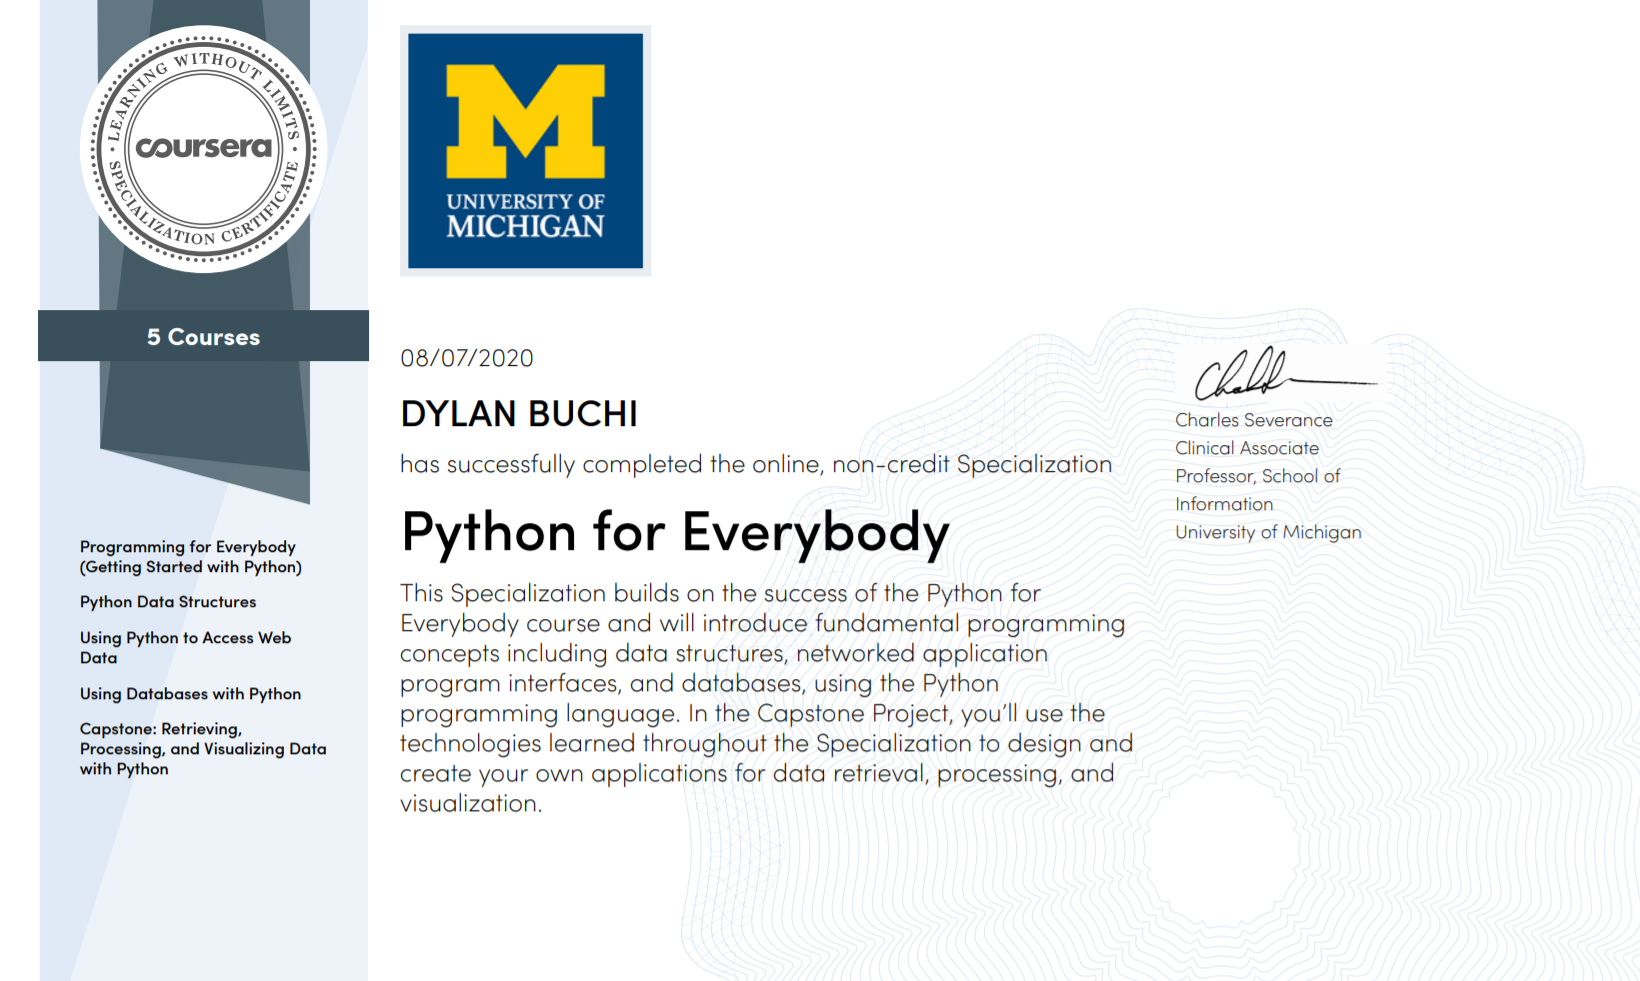
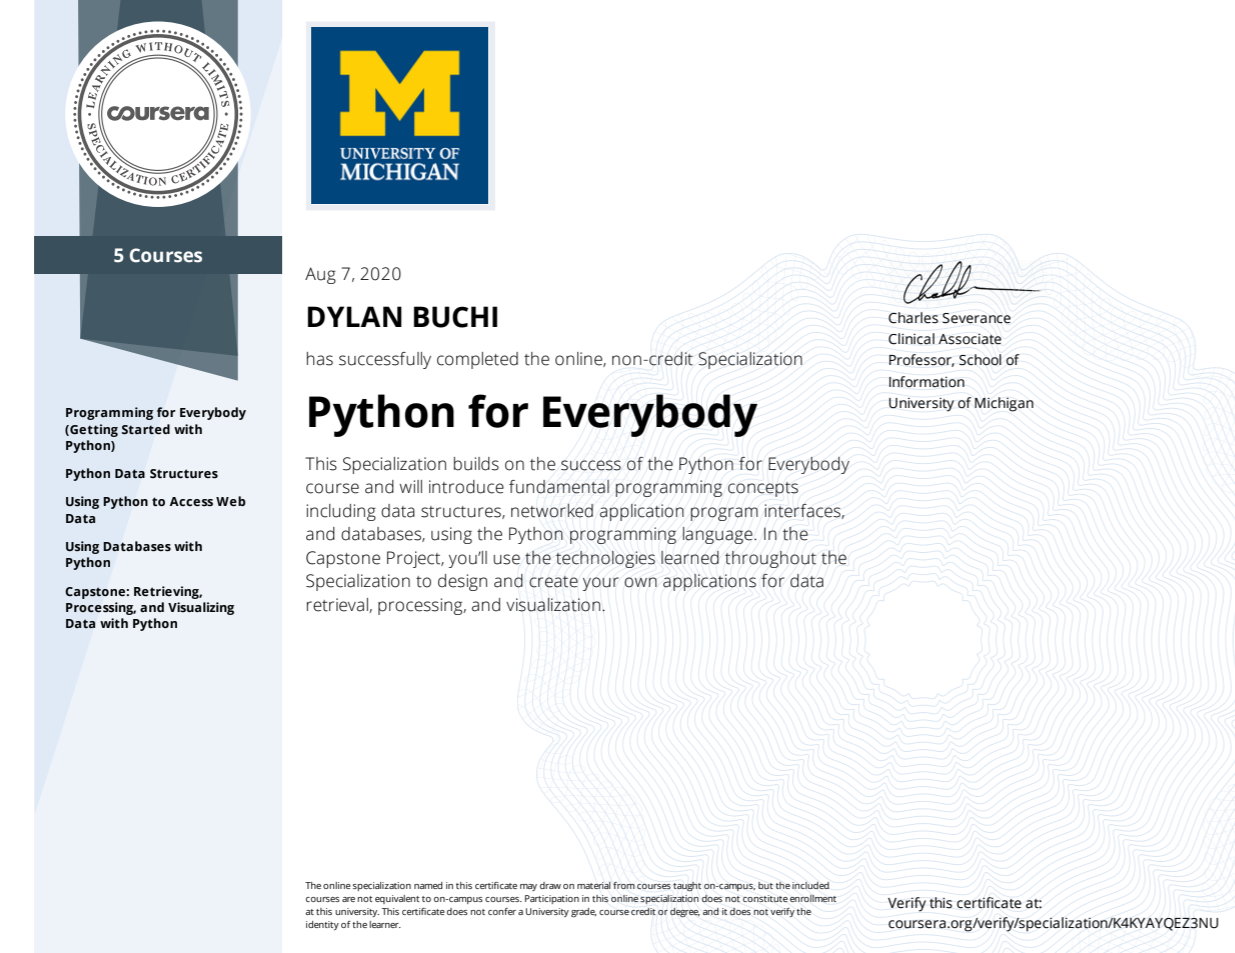
add certificates

diff --git a/templates/certification.html b/templates/certification.html
@@ -61,6 +61,7 @@
                     <div class="text-center">
                         <h1 class="h2">Certifications</h1>
                         <p>
+                            Check out my verified online certificates
                         </p>
                     </div>
                 </div>
@@ -70,24 +71,30 @@
                     <div id="myCarousel" class="carousel slide projects-carousel">
                         <!-- Carousel items -->
                         <div class="carousel-inner">
+
                             <div class="item active">
+                                <h3>Python</h3>
                                 <div class="row">
+
+                                    <!-- certificates Python-->
                                     <div class="col-sm-4">
                                         <a href="https://www.coursera.org/account/accomplishments/specialization/K4KYAYQEZ3NU"
                                             target="_blank" title="" class="btn btn-default">
                                             <img src="/static/assets/certificates/python4everybody.jpg" alt=""
+                                                class="img-responsive"></a>
+                                    </div>
+                                    <div class="col-sm-4">
+                                        <a href="https://www.coursera.org/account/accomplishments/professional-cert/T7P2NP9KK57N"
+                                            target="_blank" title="" class="btn btn-default">
+                                            <img src="/static/assets/certificates/google_it.jpg" alt=""
                                                 class="img-responsive"> </a>
                                     </div>
                                     <div class="col-sm-4">
-                                        <a href="https://www.coursera.org/account/accomplishments/specialization/K4KYAYQEZ3NU"
+
+
+                                        <a href="https://www.coursera.org/account/accomplishments/specialization/SMLQ59LT64FW"
                                             target="_blank" title="" class="btn btn-default">
-                                            <img src="/static/assets/certificates/python4everybody.jpg" alt=""
-                                                class="img-responsive"> </a>
-                                    </div>
-                                    <div class="col-sm-4">
-                                        <a href="https://www.coursera.org/account/accomplishments/specialization/K4KYAYQEZ3NU"
-                                            target="_blank" title="" class="btn btn-default">
-                                            <img src="/static/assets/certificates/python4everybody.jpg" alt=""
+                                            <img src="/static/assets/certificates/script-python.jpg" alt=""
                                                 class="img-responsive"> </a>
                                     </div>
 
@@ -96,24 +103,27 @@
 
                             </div>
                             <!--/item-->
+                            <!-- certificates Java -->
+
                             <div class="item">
+                                <h3>Java</h3>
                                 <div class="row">
                                     <div class="col-sm-4">
-                                        <a href="https://www.coursera.org/account/accomplishments/specialization/K4KYAYQEZ3NU"
+                                        <a href="https://www.coursera.org/account/accomplishments/verify/6SAX4ZTWL3U9"
                                             target="_blank" title="" class="btn btn-default">
-                                            <img src="/static/assets/certificates/python4everybody.jpg" alt=""
+                                            <img src="/static/assets/certificates/java-init-epfl.jpg" alt=""
                                                 class="img-responsive"> </a>
                                     </div>
                                     <div class="col-sm-4">
-                                        <a href="https://www.coursera.org/account/accomplishments/specialization/K4KYAYQEZ3NU"
+                                        <a href="https://www.coursera.org/account/accomplishments/verify/WH9PKH3CCPYV"
                                             target="_blank" title="" class="btn btn-default">
-                                            <img src="/static/assets/certificates/python4everybody.jpg" alt=""
+                                            <img src="/static/assets/certificates/java-oop-epfl.jpg" alt=""
                                                 class="img-responsive"> </a>
                                     </div>
                                     <div class="col-sm-4">
-                                        <a href="https://www.coursera.org/account/accomplishments/specialization/K4KYAYQEZ3NU"
+                                        <a href="https://www.credential.net/5931e8d5-64c1-4deb-bf5a-0299ff353988#gs.i8ktrv"
                                             target="_blank" title="" class="btn btn-default">
-                                            <img src="/static/assets/certificates/python4everybody.jpg" alt=""
+                                            <img src="/static/assets/certificates/java-upgrad.jpg" alt=""
                                                 class="img-responsive"> </a>
                                     </div>
 

diff --git a/main.py b/main.py
@@ -39,3 +39,7 @@ def submit_form():
         return redirect('thank_you.html')
     else:
         return 'error'
+
+
+if __name__ == "__main__":
+    app.run()
